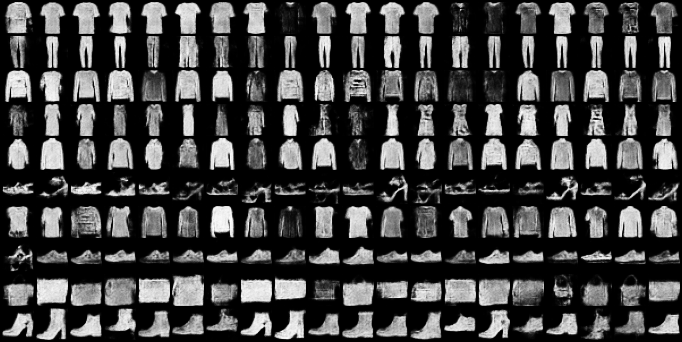
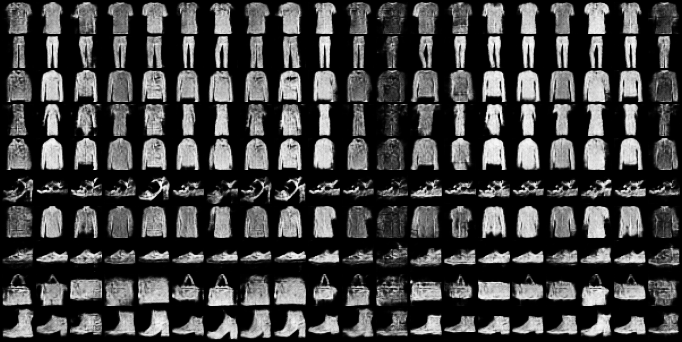
Add files via upload

diff --git a/cGAN.py b/cGAN.py
@@ -7,7 +7,6 @@ from torchvision import transforms
 import torch
 import torch.nn as nn
 import torch.nn.functional as F
-import pdb
 
 # Arguments
 BATCH_SIZE = 256
@@ -32,31 +31,21 @@ else:
     print("Incorrect dataset")
     exit(0)
 
-# Directories for storing model and output samples
+# Directories for storing data, model and output samples
+db_path = os.path.join('./data', DB)
+if not os.path.exists(db_path):
+    os.makedirs(db_path)
 model_path = os.path.join('./model', DB)
 if not os.path.exists(model_path):
     os.makedirs(model_path)
 samples_path = os.path.join('./samples', DB)
 if not os.path.exists(samples_path):
     os.makedirs(samples_path)
-db_path = os.path.join('./data', DB)
-if not os.path.exists(samples_path):
-    os.makedirs(samples_path)
 
-# Method for storing generated images
-def generate_imgs(z, fixed_label, epoch=0):
-    gen.eval()
-    fake_imgs = gen(z, fixed_label)
-    fake_imgs_ = vutils.make_grid(fake_imgs, normalize=True, nrow=IMGS_TO_DISPLAY_PER_CLASS)
-    vutils.save_image(fake_imgs_, os.path.join(samples_path, 'sample_' + str(epoch) + '.png'))
-
-
-# Data loaders
-mean = np.array([0.5])
-std = np.array([0.5])
+# Data loader
 transform = transforms.Compose([transforms.Resize([32, 32]),
                                 transforms.ToTensor(),
-                                transforms.Normalize(mean, std)])
+                                transforms.Normalize([0.5], [0.5])])
 
 if DB == 'MNIST':
     dataset = datasets.MNIST(db_path, train=True, download=True, transform=transform)
@@ -69,9 +58,16 @@ elif DB == 'SVHN':
 elif DB == 'CIFAR10':
     dataset = datasets.CIFAR10(db_path, train=True, download=True, transform=transform)
 
-data_loader = torch.utils.data.DataLoader(dataset=dataset, batch_size=BATCH_SIZE, shuffle=True, num_workers=8,
+data_loader = torch.utils.data.DataLoader(dataset=dataset, batch_size=BATCH_SIZE, shuffle=True, num_workers=4,
                                           drop_last=True)
 
+# Method for storing generated images
+def generate_imgs(z, fixed_label, epoch=0):
+    gen.eval()
+    fake_imgs = gen(z, fixed_label)
+    fake_imgs = (fake_imgs + 1) / 2
+    fake_imgs_ = vutils.make_grid(fake_imgs, normalize=False, nrow=IMGS_TO_DISPLAY_PER_CLASS)
+    vutils.save_image(fake_imgs_, os.path.join(samples_path, 'sample_' + str(epoch) + '.png'))
 
 # Networks
 def conv_block(c_in, c_out, k_size=4, stride=2, pad=1, use_bn=True, transpose=False):
@@ -94,6 +90,14 @@ class Generator(nn.Module):
         self.tconv3 = conv_block(conv_dim * 2, conv_dim, transpose=True)
         self.tconv4 = conv_block(conv_dim, channels, transpose=True, use_bn=False)
 
+        for m in self.modules():
+            if isinstance(m, nn.Conv2d) or isinstance(m, nn.ConvTranspose2d):
+                nn.init.normal_(m.weight, 0.0, 0.02)
+
+            if isinstance(m, nn.BatchNorm2d):
+                nn.init.constant_(m.weight, 1)
+                nn.init.constant_(m.bias, 0)
+
     def forward(self, x, label):
         x = x.reshape([x.shape[0], -1, 1, 1])
         label_embed = self.label_embedding(label)
@@ -115,6 +119,14 @@ class Discriminator(nn.Module):
         self.conv2 = conv_block(conv_dim, conv_dim * 2)
         self.conv3 = conv_block(conv_dim * 2, conv_dim * 4)
         self.conv4 = conv_block(conv_dim * 4, 1, k_size=4, stride=1, pad=0, use_bn=False)
+
+        for m in self.modules():
+            if isinstance(m, nn.Conv2d):
+                nn.init.normal_(m.weight, 0.0, 0.02)
+
+            if isinstance(m, nn.BatchNorm2d):
+                nn.init.constant_(m.weight, 1)
+                nn.init.constant_(m.bias, 0)
 
     def forward(self, x, label):
         alpha = 0.2
@@ -150,7 +162,8 @@ d_opt = optim.Adam(dis.parameters(), lr=0.0002, betas=(0.5, 0.999), weight_decay
 loss_fn = nn.BCELoss()
 
 # Fix images for viz
-fixed_z = torch.randn(IMGS_TO_DISPLAY_PER_CLASS*NUM_CLASSES, Z_DIM)
+fixed_z = torch.randn(1, IMGS_TO_DISPLAY_PER_CLASS, Z_DIM)
+fixed_z = torch.repeat_interleave(fixed_z, NUM_CLASSES, 0).reshape(-1, Z_DIM)
 fixed_label = torch.arange(0, NUM_CLASSES)
 fixed_label = torch.repeat_interleave(fixed_label, IMGS_TO_DISPLAY_PER_CLASS)
 
@@ -219,5 +232,4 @@ for epoch in range(EPOCHS):
         torch.save(dis.state_dict(), os.path.join(model_path, 'dis.pkl'))
 
         generate_imgs(fixed_z, fixed_label, epoch=epoch + 1)
-
 generate_imgs(fixed_z, fixed_label)
